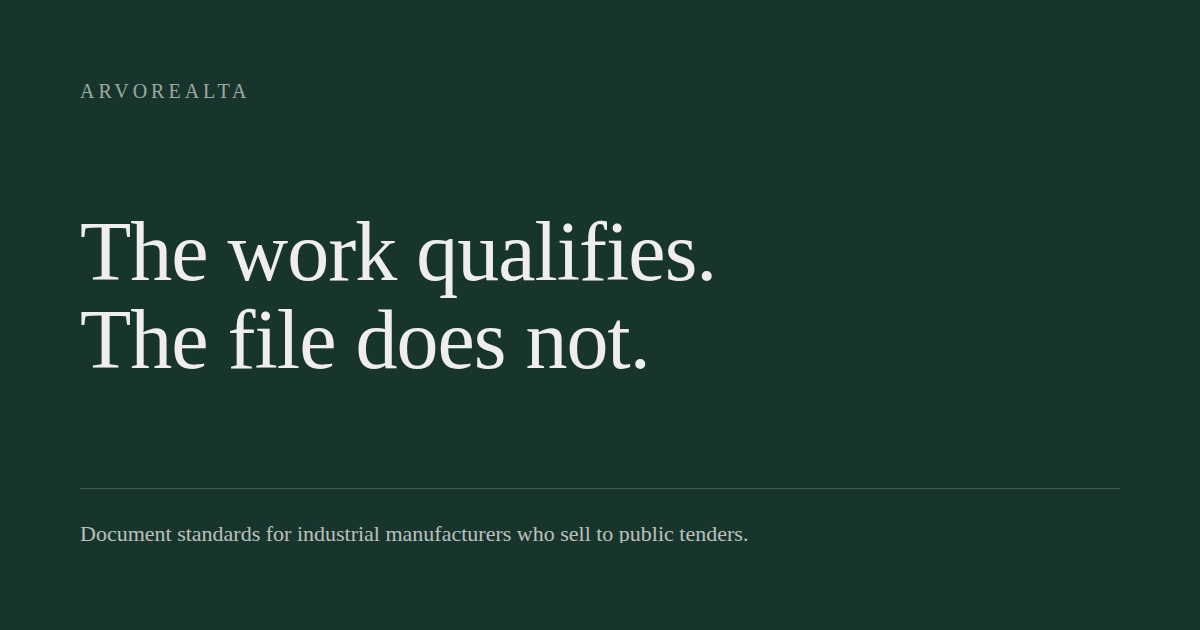
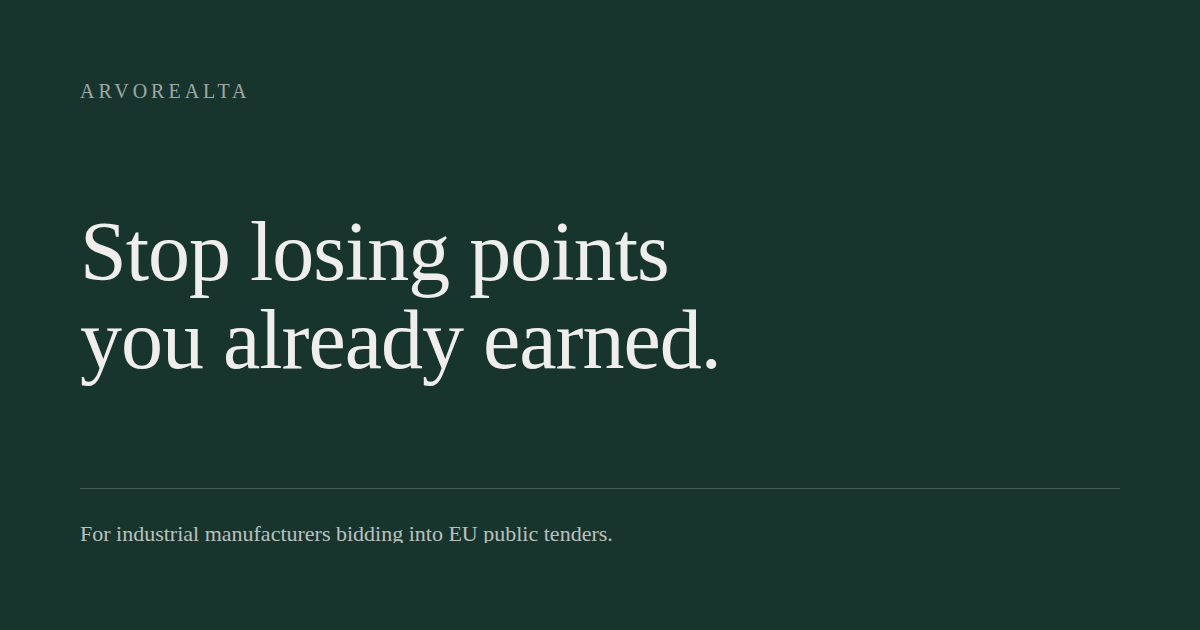
Update the hero and build the rebuild form page
The headline returns to "Stop losing points you already earned." and the
eyebrow now names the reader rather than the service. The call to action
reads "on your own document" rather than "in", changed in the hero, the
close and both mail subjects so the page keeps saying one thing.

New page at /rebuild/. Its title matches the button word for word, which
is the point: a sceptical reader who clicks one phrase and lands on
another assumes he has been redirected somewhere he did not choose.

The confidentiality block sits above the fields rather than below them,
because it answers the objection while the reader is still deciding
whether to attach anything at all. Below the form, the three steps say
what happens next, including that there is exactly one follow-up.

The form is NOT linked from the site yet and the action is a placeholder.
GitHub Pages has no server, so a file upload needs a third-party
endpoint, and which one handles a client's tender documents is a decision
about the confidentiality promise this page makes rather than a technical
detail. Nothing goes live half-wired.

Fixed a class collision found in review: the "optional" span used .opt,
which is the comparison column class and carries a border-top, so a
stray hairline was drawing above both optional labels.

Verified at 375, 834 and 1440 on both pages: headlines holding their hand
breaks, nothing overflowing.

Claude-Session: https://claude.ai/code/session_019YuzTutgzFUuksx7inHxoj

Changed region(s): [[0.0617, 0.3317, 0.6167, 0.6333], [0.0617, 0.8143, 0.6167, 0.8746]]

diff --git a/rebuild/index.html b/rebuild/index.html
@@ -1,0 +1,141 @@
+<!DOCTYPE html>
+<html lang="en">
+<head>
+<meta charset="utf-8">
+<meta name="viewport" content="width=device-width, initial-scale=1">
+<title>See it on your own document · Arvorealta</title>
+<meta name="description" content="Send one page from a bid that mattered. In 48 hours you get it back rebuilt, with a list of every fact a buyer would struggle to verify in the original.">
+<meta property="og:title" content="See it on your own document">
+<meta property="og:description" content="One page from a bid that mattered, rebuilt and sent back within 48 hours. No charge, no call, no obligation.">
+<meta property="og:type" content="website">
+<meta property="og:url" content="https://arvorealta.com/rebuild/">
+<meta property="og:image" content="https://arvorealta.com/assets/og.png">
+<meta property="og:image:width" content="1200">
+<meta property="og:image:height" content="630">
+<meta name="twitter:card" content="summary_large_image">
+<meta name="theme-color" content="#17352C">
+
+<link rel="icon" href="/assets/favicon.svg" type="image/svg+xml">
+<link rel="preconnect" href="https://fonts.googleapis.com">
+<link rel="preconnect" href="https://fonts.gstatic.com" crossorigin>
+<link rel="stylesheet" media="all"
+  href="https://fonts.googleapis.com/css2?family=Cinzel:wght@400;600&family=Playfair+Display:ital,wght@0,400;0,500;1,400&family=Shippori+Mincho:wght@400;500&display=swap">
+
+<script>
+(function(h){h.className+=" js";setTimeout(function(){
+  if(!h.classList.contains("rv-ready"))h.className+=" rv-off";},4000)})(document.documentElement);
+</script>
+<link rel="stylesheet" href="/assets/themes/arvorealta.css">
+<link rel="stylesheet" href="/assets/system.css">
+</head>
+
+<body>
+
+<header class="wrap">
+  <div class="bar">
+    <a class="mark" href="/">Arvorealta</a>
+    <nav>
+      <a class="ln" href="/">back to the offer</a>
+    </nav>
+  </div>
+</header>
+
+<section class="hero wrap">
+  <p class="eyebrow rv">The 48 hour rebuild</p>
+  <h1 class="rv">See it on<br>your own<br>document</h1>
+  <p class="sub rv">
+    One page from a bid that mattered. In 48 hours you get it back rebuilt,
+    with a list of every fact a buyer would struggle to verify in the original.
+  </p>
+  <p class="heronote rv">
+    No charge. No call. No obligation. The rebuild is yours to keep and use
+    even if you never write back.
+  </p>
+</section>
+
+<section class="wrap" style="padding-top:0">
+  <div class="confid rv">
+    <h2>Before you send anything</h2>
+    <p>
+      Nothing you send is published, shown to another client, or used as a
+      sample. Redact anything you need to. Client name, values, contacts, all
+      of it. A redacted page shows the same thing.
+    </p>
+    <p>
+      If your procurement policy needs an NDA in place first, do not upload
+      anything. Email me yours and I sign it before you send a file.
+    </p>
+  </div>
+
+  <!-- The action is the one thing still to be set. GitHub Pages cannot
+       receive a post, so this needs a form service. Nothing is wired until
+       Atlas picks one, and this page is not linked from the site until then. -->
+  <form class="form rv" method="post" enctype="multipart/form-data"
+        action="https://formspree.io/f/PENDING-ENDPOINT">
+
+    <div class="field">
+      <label for="file">The file</label>
+      <p class="hint">PDF, Word, InDesign, or a photo of a printout. Whatever you actually have.</p>
+      <input type="file" id="file" name="file"
+             accept=".pdf,.doc,.docx,.indd,.idml,.png,.jpg,.jpeg,.heic,.tif,.tiff" required>
+    </div>
+
+    <div class="field">
+      <label for="email">Your work email</label>
+      <input type="email" id="email" name="email" autocomplete="email" required>
+    </div>
+
+    <div class="field">
+      <label for="company">Company</label>
+      <input type="text" id="company" name="company" autocomplete="organization" required>
+    </div>
+
+    <div class="field">
+      <label for="tender">Which tender was this for, and how did it score <span class="optlabel">optional</span></label>
+      <p class="hint">One line is enough. If you got a clarification request on it, say what they asked.</p>
+      <textarea id="tender" name="tender" rows="3"></textarea>
+    </div>
+
+    <div class="field">
+      <label for="known">What do you already know is wrong with it <span class="optlabel">optional</span></label>
+      <textarea id="known" name="known" rows="3"></textarea>
+    </div>
+
+    <button class="submit" type="submit">Send it</button>
+    <p class="fineprint">The 48 hours starts when the file lands, not when I open it.</p>
+  </form>
+</section>
+
+<section class="inv">
+  <div class="wrap">
+    <p class="tag rv"><b>next</b> what happens</p>
+    <ol class="steps rv">
+      <li>
+        <b>1</b>
+        <span>You get a reply confirming the file arrived and the clock started.</span>
+      </li>
+      <li>
+        <b>2</b>
+        <span>Within 48 hours, the page rebuilt, plus the verification list.</span>
+      </li>
+      <li>
+        <b>3</b>
+        <span>A fixed price if you want the rest. If you do not, nothing happens.
+        I do not follow up more than once.</span>
+      </li>
+    </ol>
+  </div>
+</section>
+
+<footer>
+  <div class="wrap">
+    <div class="legal">
+      <span>© 2026 Arvorealta</span>
+      <span><a class="ln" href="mailto:awe@arvorealta.com">awe@arvorealta.com</a></span>
+    </div>
+  </div>
+</footer>
+
+<script src="/assets/site.js" defer></script>
+</body>
+</html>

diff --git a/assets/system.css b/assets/system.css
@@ -208,6 +208,54 @@ ul.ticks li::before{content:"";position:absolute;left:0;top:.75em;width:.8rem;he
 .buttons{display:flex;flex-wrap:wrap;gap:2rem;margin-top:3rem;font-family:var(--font-display);
   font-size:clamp(1.2rem,1rem + 1.1vw,2rem);letter-spacing:-.01em}
 
+/* ---------- the rebuild form ---------- */
+/* Structure only, like everything else here. The confidentiality block comes
+   before the fields on purpose: it answers the objection while the reader is
+   still deciding whether to attach anything. */
+.confid{border-top:1px solid var(--rule);border-bottom:1px solid var(--rule);
+  padding-block:1.75rem;margin-bottom:clamp(2.5rem,5vw,4rem);max-width:58ch}
+.confid h2{font-family:var(--font-label);font-size:.7rem;letter-spacing:.2em;
+  text-transform:uppercase;line-height:1;color:var(--mark);margin-bottom:1.25rem}
+.confid p{font-size:.92rem;line-height:1.7;color:var(--ink-soft);max-width:none}
+.confid p + p{margin-top:1rem}
+
+.form{max-width:34rem}
+.field{margin-bottom:clamp(1.75rem,3.5vw,2.5rem)}
+.field label{display:block;font-family:var(--font-label);font-size:.72rem;
+  letter-spacing:.16em;text-transform:uppercase;line-height:1.5;color:var(--ink)}
+.field .optlabel{font-size:.92em;letter-spacing:.1em;color:var(--ink-soft);text-transform:lowercase}
+.field .hint{margin:.5rem 0 0;font-size:.88rem;line-height:1.6;color:var(--ink-soft);max-width:none}
+.field input,.field textarea{
+  display:block;width:100%;margin-top:.9rem;padding:.7rem .85rem;
+  font-family:inherit;font-size:1rem;line-height:1.6;color:var(--ink);
+  background:var(--paper-3);border:1px solid var(--rule);border-radius:0;
+  -webkit-appearance:none;appearance:none;
+}
+.field textarea{resize:vertical}
+.field input:focus-visible,.field textarea:focus-visible{outline:2px solid var(--mark);outline-offset:2px}
+.field input[type=file]{padding:.85rem;cursor:pointer;font-size:.92rem}
+.field input[type=file]::file-selector-button{
+  margin-right:.85rem;padding:.45rem .9rem;cursor:pointer;
+  font-family:var(--font-label);font-size:.7rem;letter-spacing:.14em;text-transform:uppercase;
+  color:var(--on-mark);background:var(--mark);border:0;border-radius:0;
+}
+.submit{
+  display:inline-block;margin-top:.5rem;padding:.85rem 1.9rem;cursor:pointer;
+  font-family:var(--font-display);font-size:clamp(1.05rem,.95rem + .5vw,1.35rem);
+  letter-spacing:-.01em;color:var(--on-mark);background:var(--mark);
+  border:0;border-radius:0;
+}
+.submit:hover,.submit:focus-visible{background:var(--ink)}
+
+/* numbered steps on the ink ground */
+.steps{list-style:none;margin:0;padding:0;display:grid;gap:2rem;grid-template-columns:1fr}
+@media(min-width:50rem){.steps{grid-template-columns:repeat(3,1fr);gap:2.5rem}}
+.steps li{border-top:1px solid var(--rule-inv);padding-top:1.2rem}
+.steps b{display:block;font-family:var(--font-display);font-weight:400;line-height:1;
+  font-size:clamp(2rem,1.4rem + 1.6vw,2.75rem);color:var(--paper-3)}
+.steps span{display:block;margin-top:.9rem;font-size:.92rem;line-height:1.6;
+  color:rgba(233,231,228,.75)}
+
 /* ---------- footer ---------- */
 footer{padding-block:4rem 3rem;font-size:.85rem;color:var(--ink-soft);border-top:1px solid var(--rule)}
 .foot{display:grid;gap:2.5rem;grid-template-columns:1fr}

diff --git a/index.html b/index.html
@@ -12,7 +12,7 @@
 <meta property="og:image" content="https://arvorealta.com/assets/og.png">
 <meta property="og:image:width" content="1200">
 <meta property="og:image:height" content="630">
-<meta property="og:image:alt" content="The work qualifies. The file does not. Document standards for industrial manufacturers who sell to public tenders.">
+<meta property="og:image:alt" content="Stop losing points you already earned. Document standards for industrial manufacturers bidding into EU public tenders.">
 <meta name="twitter:card" content="summary_large_image">
 <meta name="theme-color" content="#17352C">
 
@@ -49,8 +49,8 @@
 </header>
 
 <section class="hero wrap">
-  <p class="eyebrow rv">Document standards for industrial manufacturers</p>
-  <h1 class="rv">The work<br>qualifies.<br>The file<br>does not.</h1>
+  <p class="eyebrow rv">For industrial manufacturers bidding into EU public tenders</p>
+  <h1 class="rv">Stop losing<br>points<br>you already<br>earned.</h1>
   <p class="sub rv">
     Reference projects are scored. An install nobody documented scores zero,
     however well you built it. You have the best product on the shortlist.
@@ -58,7 +58,7 @@
   </p>
 
   <div class="heroact rv">
-    <a class="ln on herocta" href="mailto:awe@arvorealta.com?subject=See%20it%20in%20my%20own%20document">See it in your own document.</a>
+    <a class="ln on herocta" href="mailto:awe@arvorealta.com?subject=See%20it%20on%20my%20own%20document">See it on your own document.</a>
   </div>
   <p class="heronote rv">
     Free. No call. Nothing you send is shown to anyone.
@@ -391,7 +391,7 @@
 <!-- CTA -->
 <section id="contact" class="inv cta">
   <div class="wrap">
-    <h2 class="rv">See it in<br>your own document.</h2>
+    <h2 class="rv">See it on<br>your own document.</h2>
     <p class="heronote rv" style="margin-top:2.5rem">
       Free. No call. Nothing you send is shown to anyone.
     </p>
@@ -401,7 +401,7 @@
       rebuild whether or not you go further.
     </p>
     <div class="buttons rv">
-      <a class="ln on" href="mailto:awe@arvorealta.com?subject=See%20it%20in%20my%20own%20document">awe@arvorealta.com</a>
+      <a class="ln on" href="mailto:awe@arvorealta.com?subject=See%20it%20on%20my%20own%20document">awe@arvorealta.com</a>
     </div>
     <p class="heroalt rv">
       Rather talk first. <a class="ln" href="https://calendly.com/awe-arvorealta/30min">Book 30 minutes.</a>

diff --git a/assets/_og/index.html b/assets/_og/index.html
@@ -13,9 +13,9 @@
 <body>
 <div class="card">
   <p class="label">Arvorealta</p>
-  <h1>The work qualifies.<br>The file does not.</h1>
+  <h1>Stop losing points<br>you already earned.</h1>
   <div class="foot">
-    <p>Document standards for industrial manufacturers who sell to public tenders.</p>
+    <p>For industrial manufacturers bidding into EU public tenders.</p>
   </div>
 </div>
 </body>
